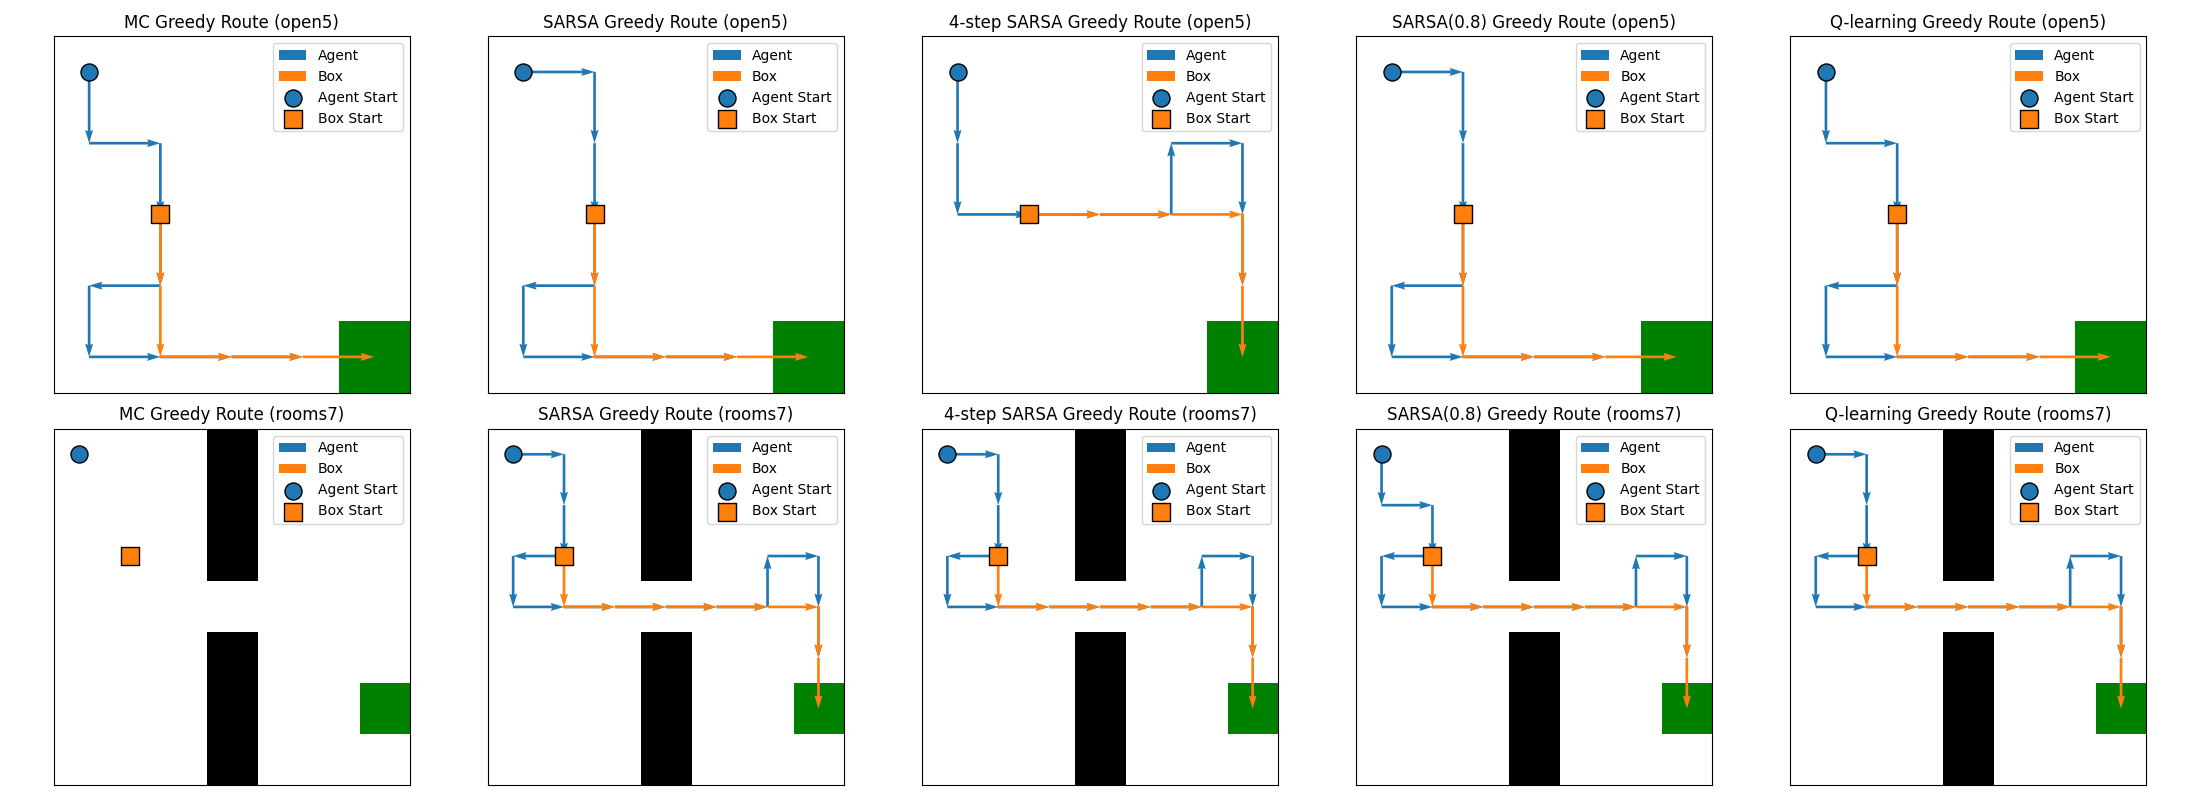
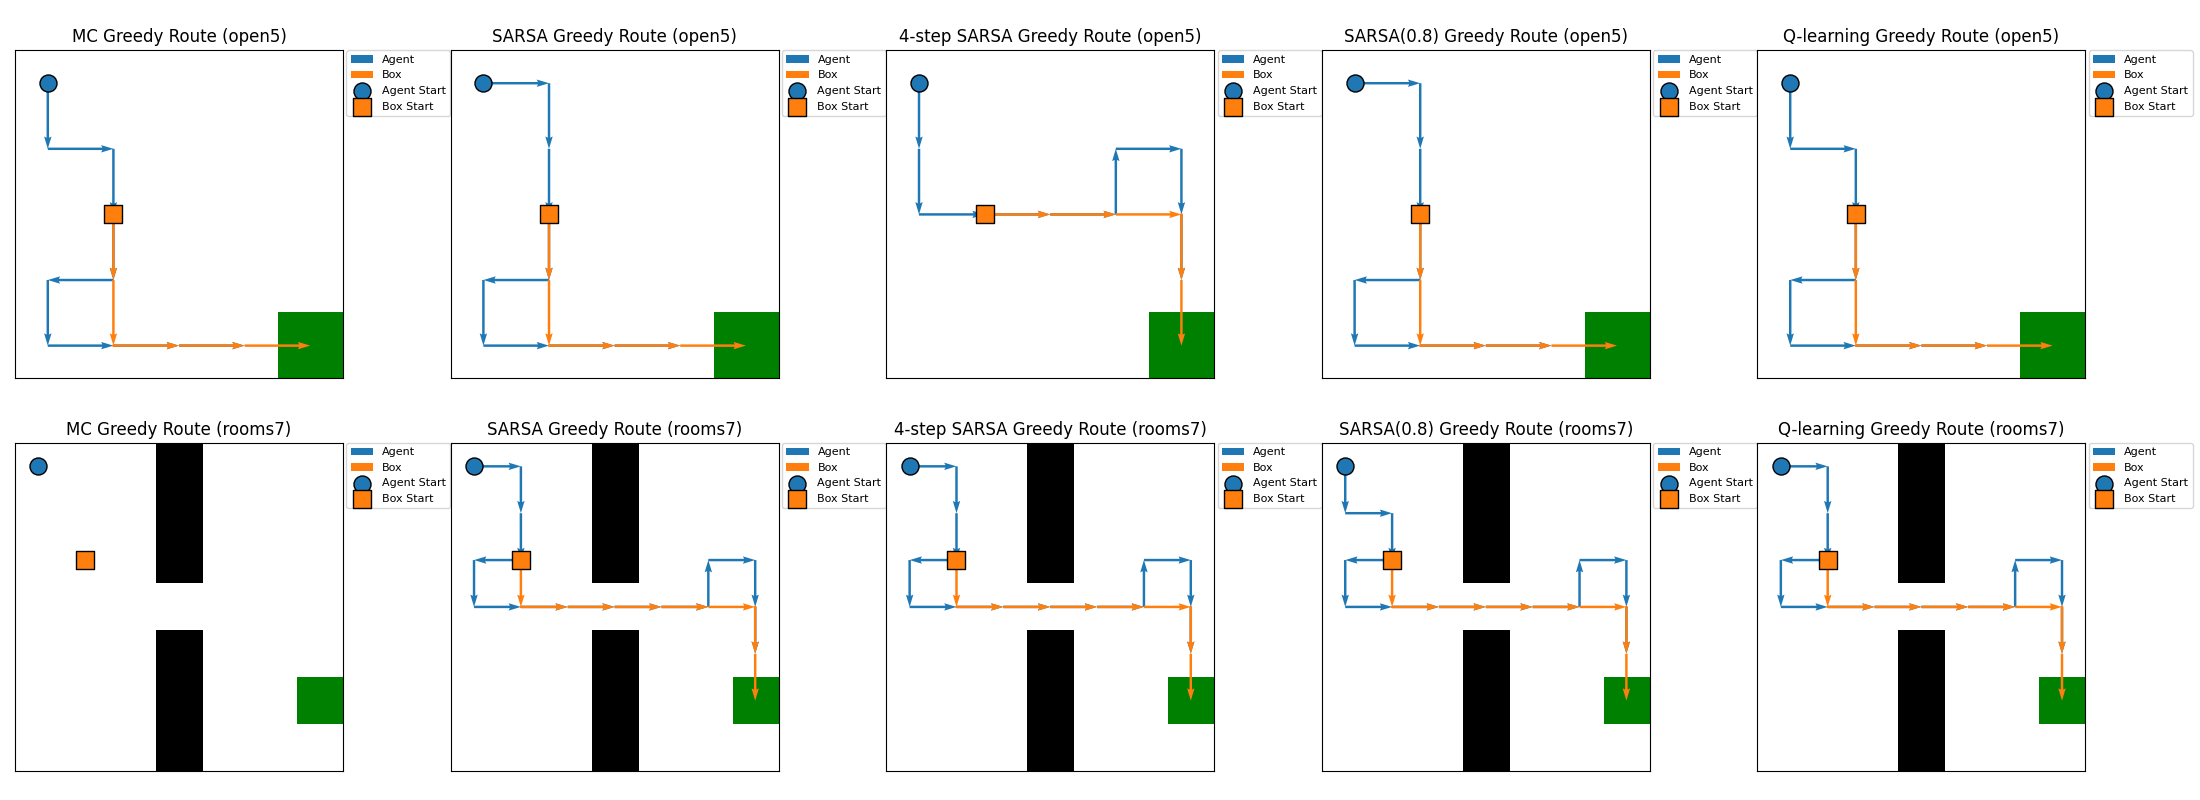
Cleanup Experiments

diff --git a/experiments/model_free_control/scripts/learning_curves.py b/experiments/model_free_control/scripts/learning_curves.py
@@ -5,6 +5,7 @@ from tabular.dp import evaluate_greedy, value_iteration
 from tabular.exploration import LinearEps
 from envs.grid import GridPushEnv
 from common.plots import plot_route
+from common.stats import bootstrap_ci
 
 envs = [GridPushEnv(layout="open5", slip=0.1, seed=42), GridPushEnv(layout="rooms7", slip=0.1, seed=42)]
 layouts = ["open5", "rooms7"]
@@ -12,10 +13,11 @@ n_episodes = 6000
 gamma = 0.99
 alpha = 0.2
 seeds = [0, 1, 2, 3, 4]
+eval_every = 100
 
 def record(i, Q, ep_return):
     returns.append(ep_return)
-    if (i + 1) % 100 == 0:
+    if (i + 1) % eval_every == 0:
         values.append(evaluate_greedy(env.P, env.R, Q, gamma)[s0])
 
 fig, axs = plt.subplots(1, 2, figsize=(14, 5))
@@ -111,3 +113,46 @@ value_fig.tight_layout()
 value_fig.savefig("experiments/model_free_control/results/greedy_value.png")
 route_fig.tight_layout()
 route_fig.savefig("experiments/model_free_control/results/routes.png")
+
+# Lambda Study
+env = GridPushEnv(layout="open5", slip=0.1, seed=42)
+state, _ = env.reset()
+s0 = env.state_index[state]
+V_star, _, _ = value_iteration(env.P, env.R, gamma, 1e-8)
+eval_every = 10
+n_episodes = 5000
+lambdas = [0, 0.5, 0.9]
+
+episodes_needed = []
+for lam in lambdas:
+    lam_episodes = []
+    for seed in seeds:
+        env.reset(seed=seed)
+        rng = np.random.default_rng(seed + 1)
+        returns = []
+        values = []
+        sarsa_lambda(env, n_episodes, alpha, gamma, lam, LinearEps(1.0, 0.05, 1000), rng, callback=record)
+        needed = n_episodes
+        for k in range(len(values)):
+            if values[k] >= V_star[s0] / 0.95:
+                needed = (k + 1) * eval_every
+                break
+        lam_episodes.append(needed)
+    episodes_needed.append(lam_episodes)
+
+means = []
+lows = []
+highs = []
+for lam_episodes in episodes_needed:
+    lam_episodes = np.array(lam_episodes)
+    low, high = bootstrap_ci(lam_episodes)
+    means.append(lam_episodes.mean())
+    lows.append(lam_episodes.mean() - low)
+    highs.append(high - lam_episodes.mean())
+
+fig, ax = plt.subplots(figsize=(7, 5))
+ax.bar([f"λ = {lam}" for lam in lambdas], means, yerr=[lows, highs], capsize=8, color=["tab:blue", "tab:orange", "tab:green"])
+ax.set_ylabel("Episodes to reach 95% of V*")
+ax.set_title("SARSA(λ) on open5 (mean and 95% CI over 5 seeds)")
+fig.tight_layout()
+fig.savefig("experiments/model_free_control/results/lambda_episodes.png")

diff --git a/experiments/model_free_control/scripts/cliff.py b/experiments/model_free_control/scripts/cliff.py
@@ -1,11 +1,10 @@
 import numpy as np
 import matplotlib.pyplot as plt
-from tabular.control import sarsa, sarsa_lambda, nstep_sarsa, monte_carlo, q_learning
+from tabular.control import sarsa, q_learning
 from tabular.dp import evaluate_greedy, value_iteration
 from tabular.exploration import LinearEps, argmax_random
 from envs.grid import GridPushEnv
 from common.plots import plot_route
-from common.stats import bootstrap_ci
 
 env = GridPushEnv(layout="cliff", slip=0, seed=42)
 n_episodes = 30000
@@ -80,45 +79,3 @@ for name, Q, ax in [("SARSA", Q_sarsa, axs[0]), ("Q-learning", Q_q, axs[1])]:
 fig.tight_layout()
 fig.savefig("experiments/model_free_control/results/cliff_routes.png")
 
-# Lambda Study
-env = GridPushEnv(layout="open5", slip=0.1, seed=42)
-state, _ = env.reset()
-s0 = env.state_index[state]
-V_star, _, _ = value_iteration(env.P, env.R, gamma, 1e-8)
-eval_every = 10
-n_episodes = 5000
-lambdas = [0, 0.5, 0.9]
-
-episodes_needed = []
-for lam in lambdas:
-    lam_episodes = []
-    for seed in seeds:
-        env.reset(seed=seed)
-        rng = np.random.default_rng(seed + 1)
-        returns = []
-        values = []
-        sarsa_lambda(env, n_episodes, alpha, gamma, lam, LinearEps(1.0, 0.05, 1000), rng, callback=record)
-        needed = n_episodes
-        for k in range(len(values)):
-            if values[k] >= V_star[s0] / 0.95:
-                needed = (k + 1) * eval_every
-                break
-        lam_episodes.append(needed)
-    episodes_needed.append(lam_episodes)
-
-means = []
-lows = []
-highs = []
-for lam_episodes in episodes_needed:
-    lam_episodes = np.array(lam_episodes)
-    low, high = bootstrap_ci(lam_episodes)
-    means.append(lam_episodes.mean())
-    lows.append(lam_episodes.mean() - low)
-    highs.append(high - lam_episodes.mean())
-
-fig, ax = plt.subplots(figsize=(7, 5))
-ax.bar([f"λ = {lam}" for lam in lambdas], means, yerr=[lows, highs], capsize=8, color=["tab:blue", "tab:orange", "tab:green"])
-ax.set_ylabel("Episodes to reach 95% of V*")
-ax.set_title("SARSA(λ) on open5 (mean and 95% CI over 5 seeds)")
-fig.tight_layout()
-fig.savefig("experiments/model_free_control/results/lambda_episodes.png")
